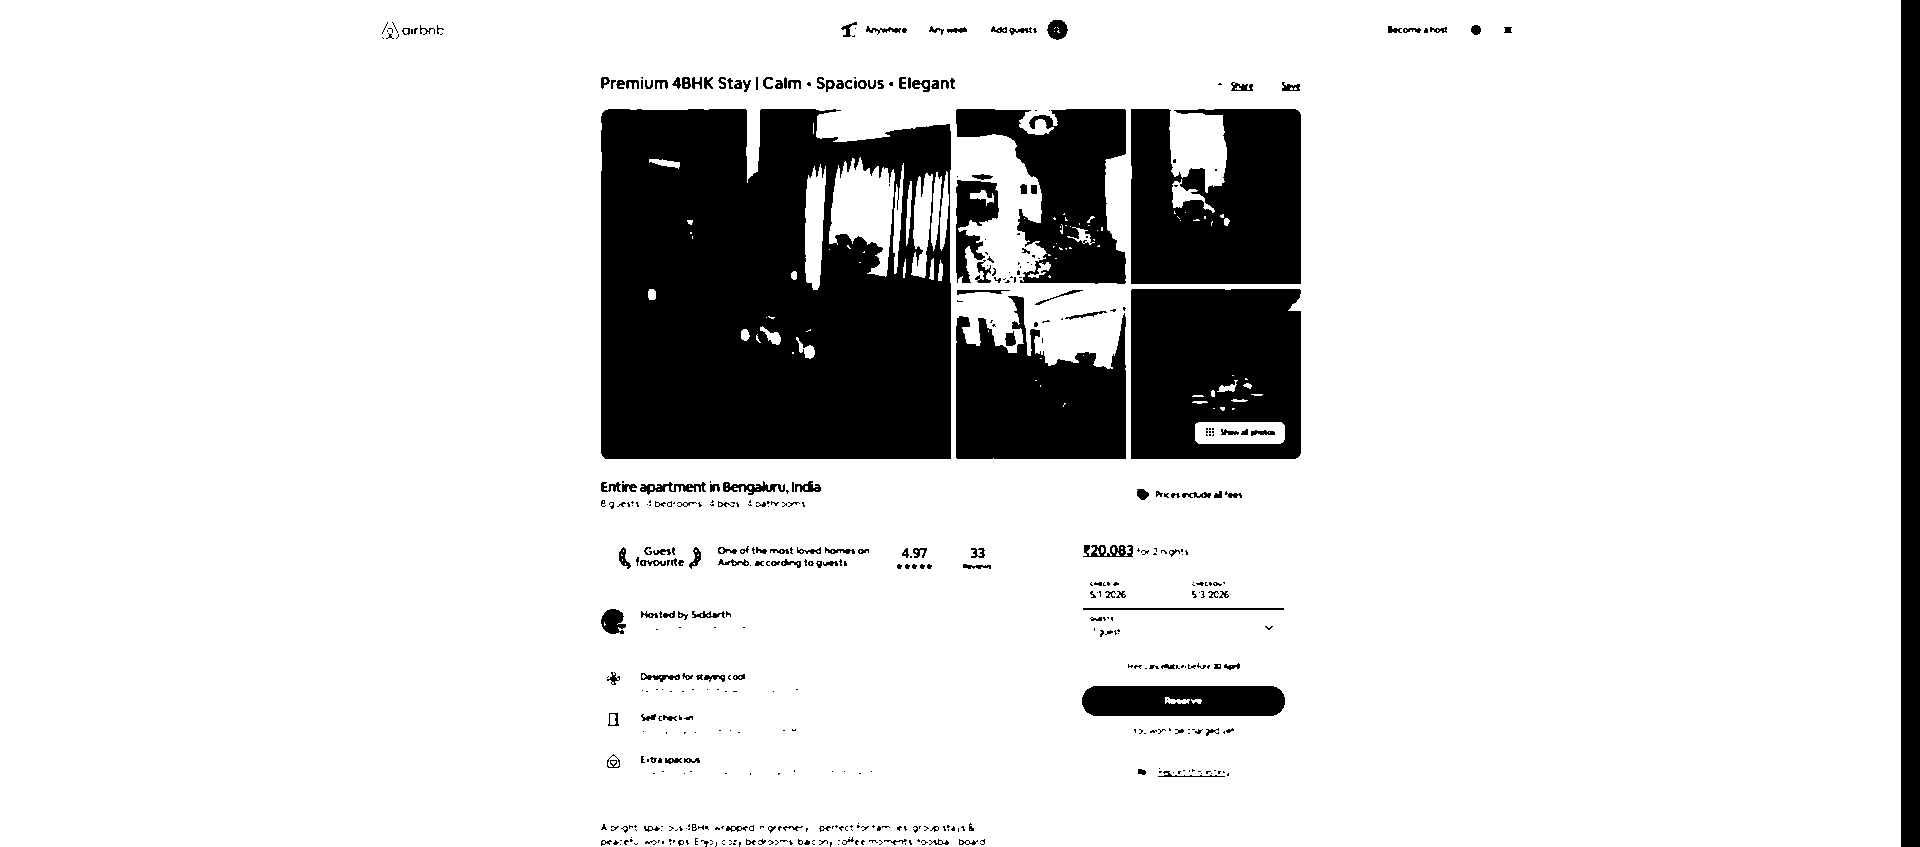
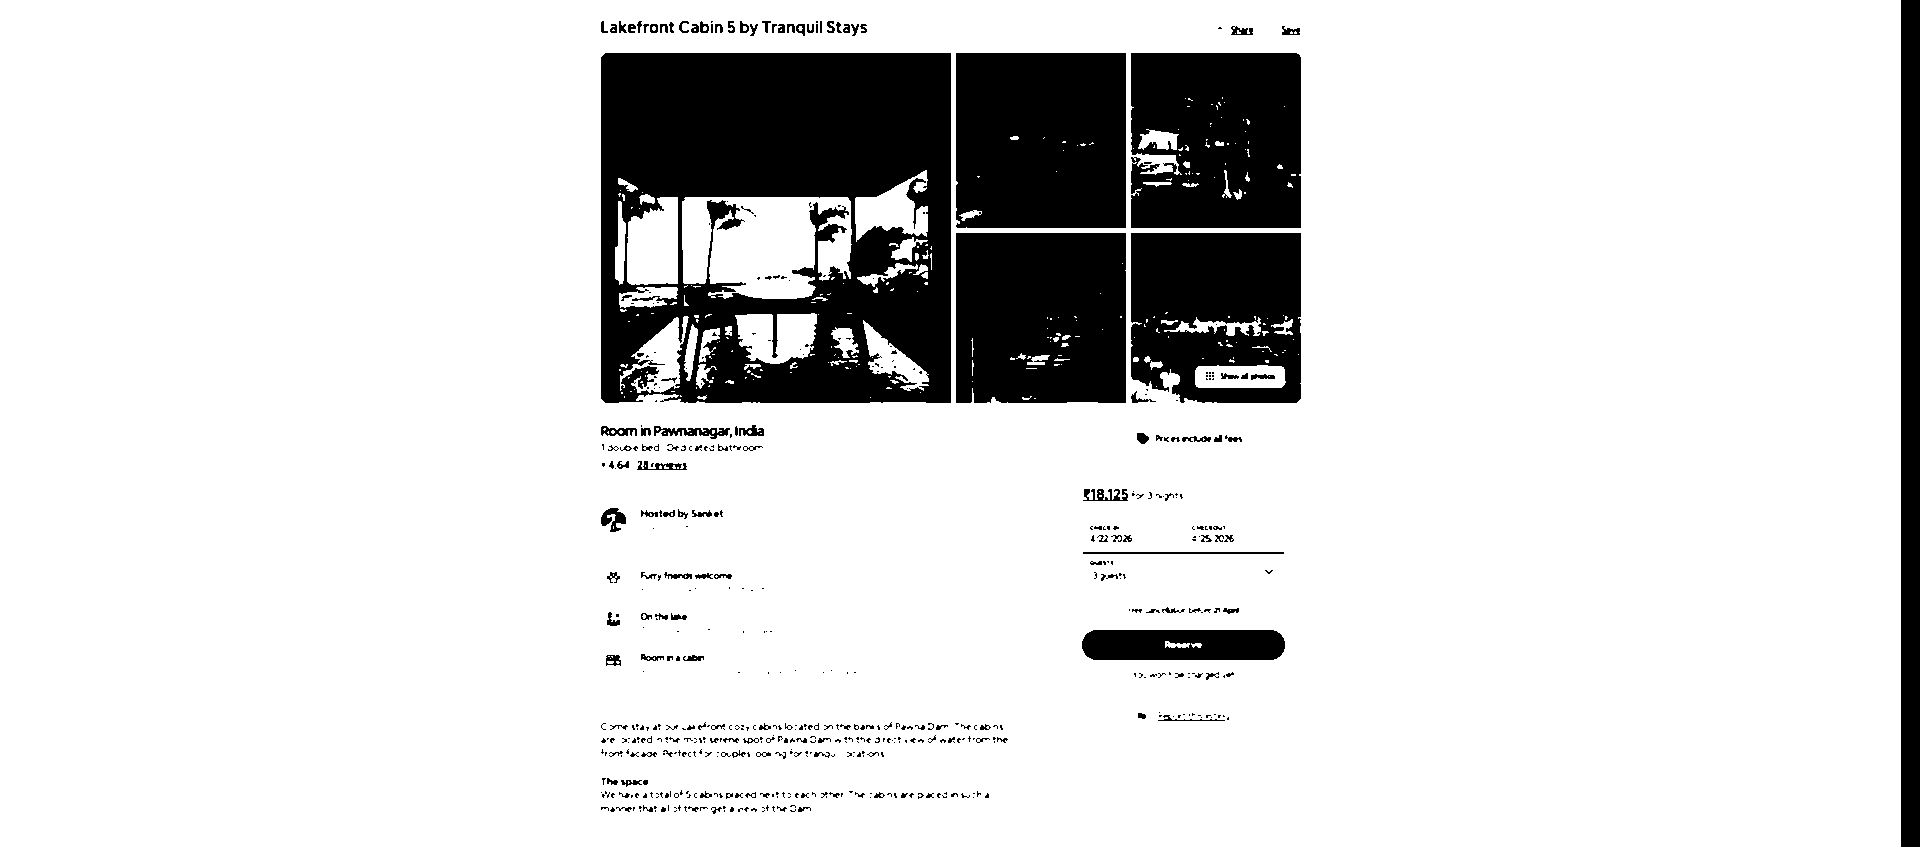
Implemented batch image preprocessing pipeline

diff --git a/src/preprocess.py b/src/preprocess.py
@@ -1,6 +1,7 @@
 import cv2
 import os
 
+
 def preprocess_image(image_path, save_path=None):
     img = cv2.imread(image_path)
 
@@ -26,38 +27,44 @@ def preprocess_image(image_path, save_path=None):
 
 
 if __name__ == "__main__":
+
     base_dir = os.path.dirname(os.path.dirname(os.path.abspath(__file__)))
 
-    test_image = os.path.join(
-        base_dir,
-        "data",
-        "raw",
-        "airbnb",
-        "airbnb_3.png"
-    )
+    raw_dir = os.path.join(base_dir, "data", "raw")
+    processed_dir = os.path.join(base_dir, "data", "processed")
 
-    processed_image_path = os.path.join(
-        base_dir,
-        "data",
-        "processed",
-        "airbnb",
-        "airbnb_0_processed.png"
-    )
+    print("Starting preprocessing...")
 
-    try:
-        original, processed = preprocess_image(
-            test_image,
-            processed_image_path
-        )
+    for platform in os.listdir(raw_dir):
 
-        print("Image preprocessing successful!")
-        print(f"Saved to: {processed_image_path}")
+        platform_path = os.path.join(raw_dir, platform)
 
-        cv2.imshow("Original Image", original)
-        cv2.imshow("Preprocessed Image", processed)
+        if not os.path.isdir(platform_path):
+            continue
 
-        cv2.waitKey(0)
-        cv2.destroyAllWindows()
+        output_platform_dir = os.path.join(processed_dir, platform)
+        os.makedirs(output_platform_dir, exist_ok=True)
 
-    except Exception as e:
-        print(f"Error: {e}")
+        print(f"\nProcessing {platform}...")
+
+        for img_name in os.listdir(platform_path):
+
+            if img_name.lower().endswith(('.png', '.jpg', '.jpeg')):
+
+                img_path = os.path.join(platform_path, img_name)
+
+                base_name = os.path.splitext(img_name)[0]
+
+                save_path = os.path.join(
+                    output_platform_dir,
+                    f"{base_name}_processed.png"
+                )
+
+                try:
+                    preprocess_image(img_path, save_path)
+                    print(f"Processed: {img_name}")
+
+                except Exception as e:
+                    print(f"Error processing {img_name}: {e}")
+
+    print("\nAll images preprocessed successfully!")